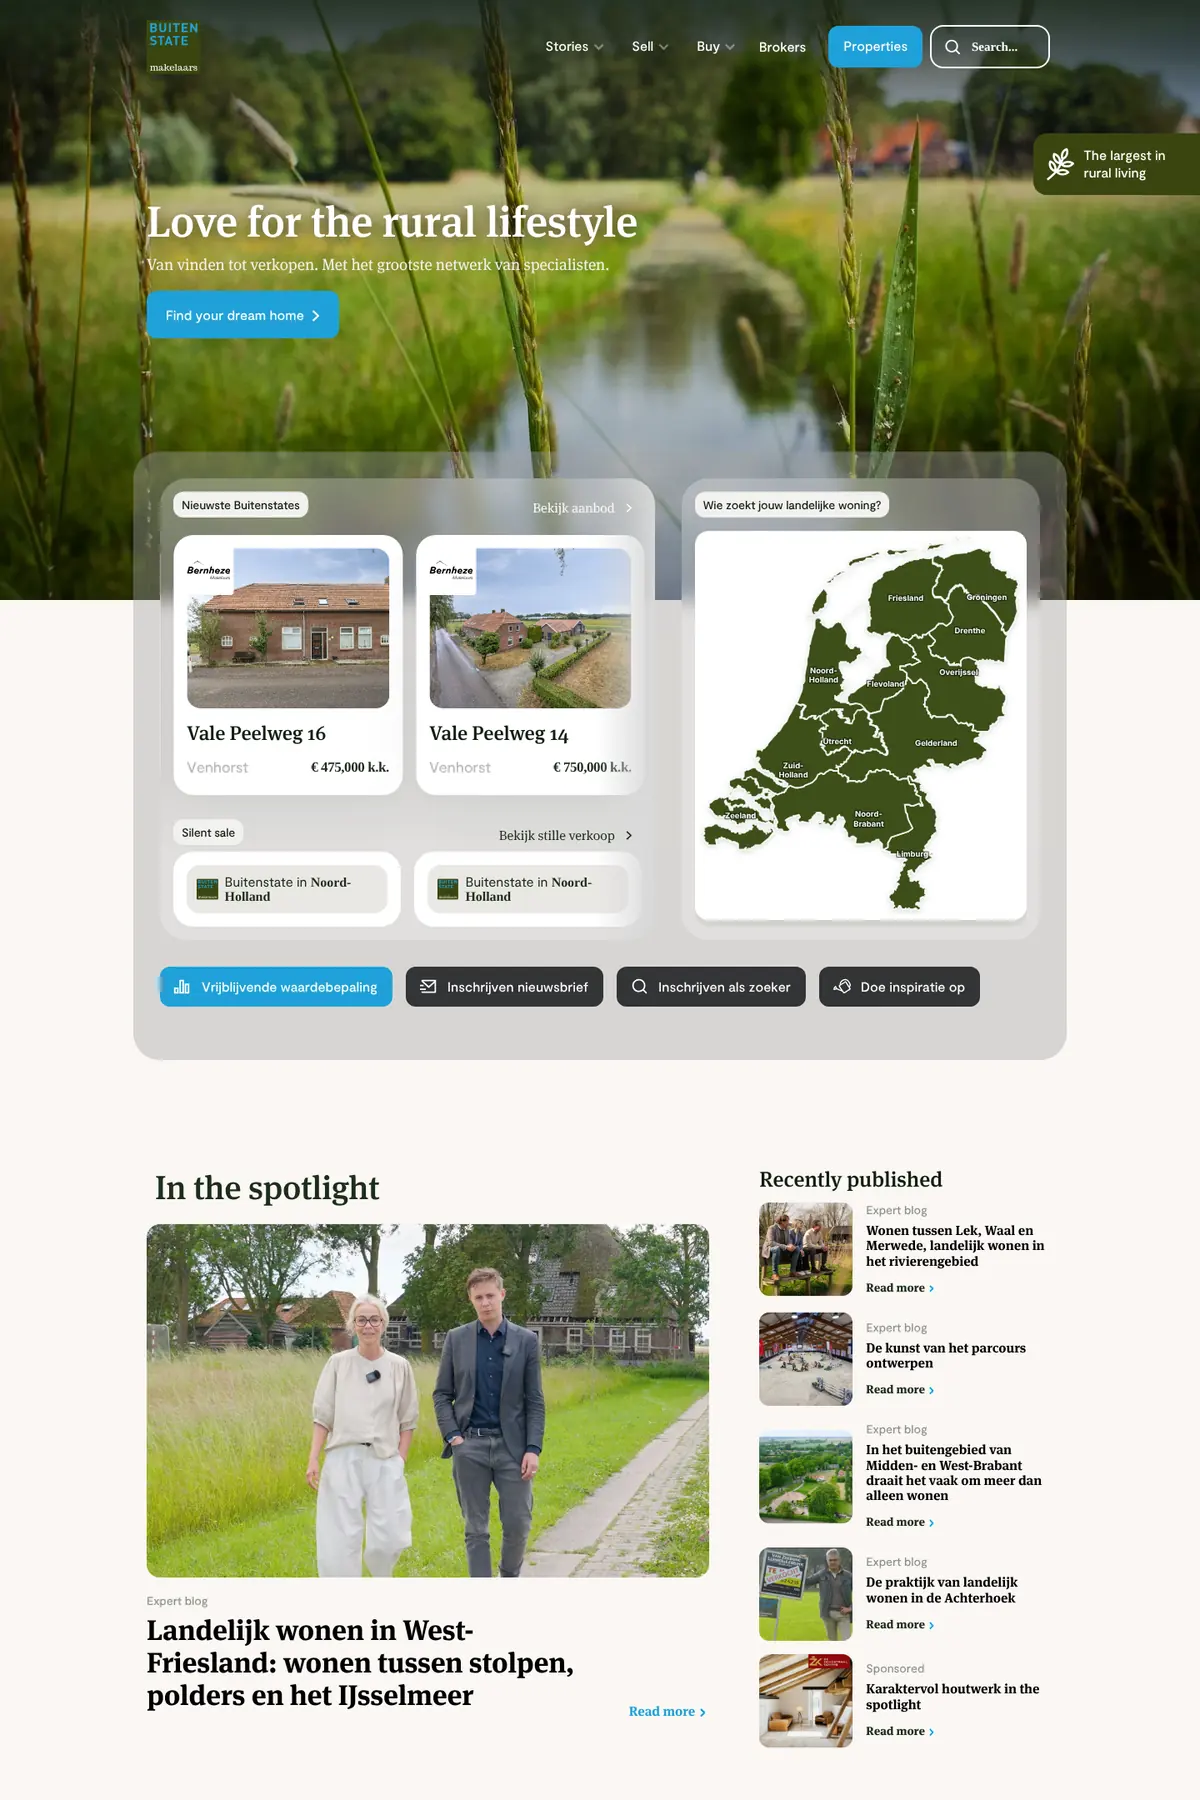
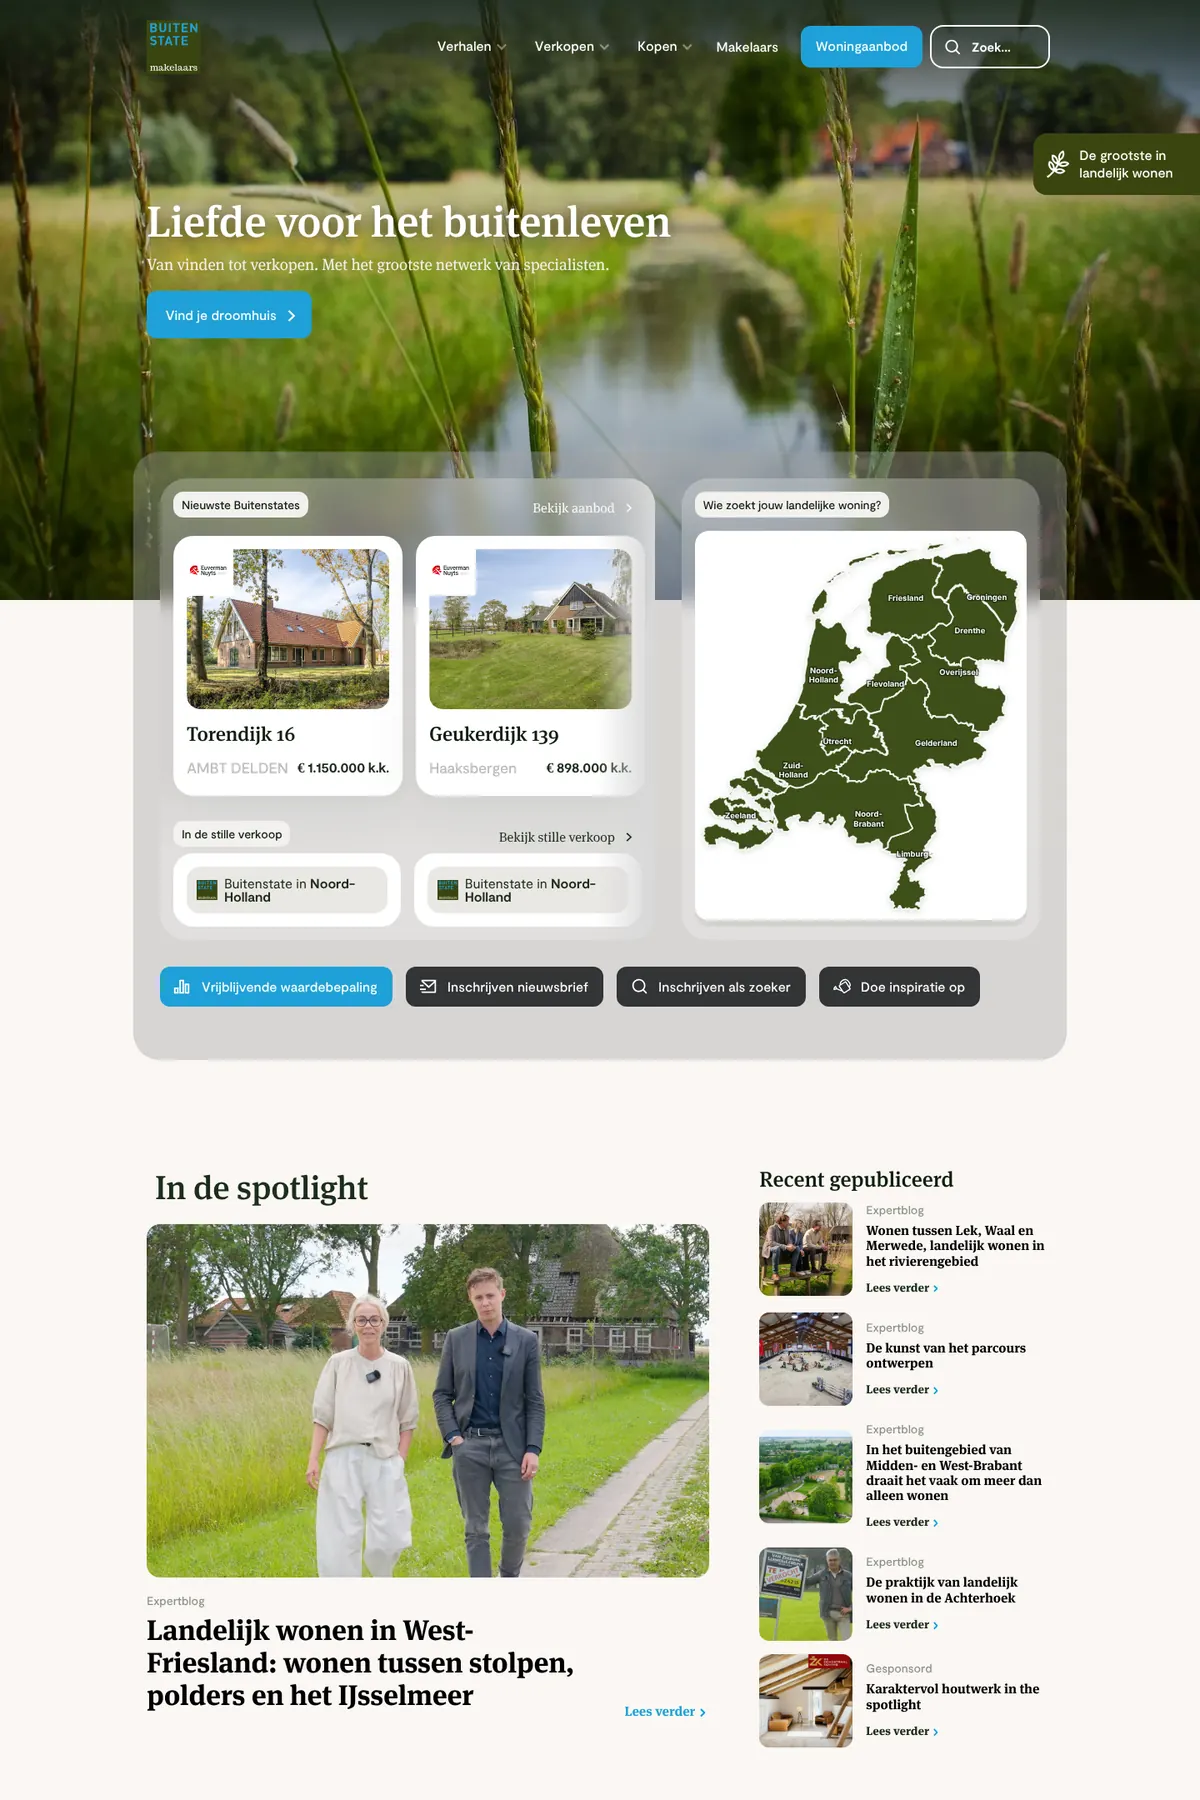
Sectorpagina's: diensten als bento met strakke mockups van echt werk
Elke dienst een tegel met een device- of drukwerkmockup (browser, tablet,
telefoon, boek, drukwerk, video). Per tegel eerst een project uit de
sector zelf, anders een sterk referentieproject (Plenty Planet, Steddion,
Buitenstate, The Sandt, Bernheze, DesignersHouse, Monvy, BCTN, Alpacafarm).
Bouw & vastgoed: Bernheze, Buitenstate, The Sandt en Steddion. Tegeltekst
is de Nederlandse intro van de dienst.

Claude-Session: https://claude.ai/code/session_01LWpQqsz2LsbqaoFYXVXiVp

diff --git a/src/styles/tiles.css b/src/styles/tiles.css
@@ -152,12 +152,14 @@
 }
 .sb-tile__text {
   grid-column: 1 / -1;
+  display: -webkit-box;
+  -webkit-box-orient: vertical;
+  -webkit-line-clamp: 2;
+  max-width: 62ch;
   margin: 7px 0 0;
   overflow: hidden;
-  white-space: nowrap;
-  text-overflow: ellipsis;
   font-size: 0.92rem;
-  line-height: 1.5;
+  line-height: 1.6;
   color: var(--muted);
 }
 .sb-tile__arrow {
@@ -180,8 +182,10 @@
 .sb-tile:hover .sb-tile__arrow,
 .sb-tile:focus-visible .sb-tile__arrow {
   color: #0b0c0f;
-  background: color-mix(in srgb, var(--accent) 88%, #fff);
-  box-shadow: 0 0 22px color-mix(in srgb, var(--accent) 45%, transparent);
+  background: #f3f4f6;
+  box-shadow:
+    0 0 0 4px color-mix(in srgb, var(--accent) 14%, transparent),
+    0 0 26px color-mix(in srgb, var(--accent) 38%, transparent);
   rotate: 45deg;
 }
 
@@ -327,12 +331,8 @@
     inset 0 0 0 1px rgba(255, 255, 255, 0.08),
     var(--dv-shadow);
 }
-.sb-tile[data-flip] .dv-browser {
-  left: auto;
-  right: 7cqw;
-}
 .dv-browser.is-scroll {
-  width: 93cqw;
+  width: 99cqw;
   height: calc(100cqh - var(--top) + 2px);
 }
 .dv-browser__bar {
@@ -407,7 +407,7 @@
   height: auto;
   object-fit: initial;
   will-change: transform;
-  animation: sb-scroll 46s cubic-bezier(0.45, 0, 0.55, 1) infinite;
+  animation: sb-scroll 56s cubic-bezier(0.45, 0, 0.55, 1) infinite;
 }
 @keyframes sb-scroll {
   0%,
@@ -439,10 +439,6 @@
   box-shadow:
     0 0 0 1px rgba(0, 0, 0, 0.7),
     var(--dv-shadow);
-}
-.sb-tile[data-flip] .dv-tablet {
-  left: auto;
-  right: 8cqw;
 }
 .dv-tablet.is-portrait {
   left: 50%;
@@ -482,7 +478,7 @@
 .dv-phone {
   left: 50%;
   top: var(--top);
-  width: max(25cqw, calc((100cqh - var(--top)) * 0.62));
+  width: min(56cqw, max(34cqw, calc((100cqh - var(--top)) * 0.82)));
   aspect-ratio: 0.488;
   translate: -50% 0;
   container-type: inline-size;
@@ -520,12 +516,48 @@
   height: 14%;
 }
 .dv-phone__screen {
+  display: flex;
+  flex-direction: column;
   height: 100%;
   border-radius: 12.4cqw;
   background: #000;
 }
+/* schermbreed, van boven af (de telefoon loopt onderaan uit beeld) */
 .dv-phone__screen img {
-  object-position: 50% 0;
+  flex: none;
+  height: auto;
+}
+/* statusbalk: de app begint onder het eiland */
+.dv-phone__status {
+  flex: none;
+  display: flex;
+  align-items: center;
+  justify-content: space-between;
+  height: 13.5cqw;
+  padding: 1.2cqw 8.5cqw 0 10.5cqw;
+  font-size: 4.3cqw;
+  font-weight: 600;
+  letter-spacing: 0.01em;
+  color: #fff;
+}
+.dv-phone__icons {
+  display: flex;
+  align-items: center;
+  gap: 1.6cqw;
+}
+.dv-phone__icons i:first-child {
+  width: 5.2cqw;
+  height: 3.2cqw;
+  background: linear-gradient(90deg, #fff 0 18%, transparent 18% 27%, #fff 27% 45%, transparent 45% 54%, #fff 54% 72%, transparent 72% 82%, rgba(255, 255, 255, 0.4) 82%);
+  clip-path: polygon(0 75%, 18% 75%, 18% 55%, 27% 55%, 27% 38%, 45% 38%, 45% 20%, 54% 20%, 54% 0, 100% 0, 100% 100%, 0 100%);
+}
+.dv-phone__icons i:last-child {
+  position: relative;
+  width: 7cqw;
+  height: 3.4cqw;
+  border-radius: 1cqw;
+  box-shadow: inset 0 0 0 0.45cqw rgba(255, 255, 255, 0.45);
+  background: linear-gradient(90deg, #fff 0 72%, transparent 72%) 0.9cqw 50% / calc(100% - 1.8cqw) calc(100% - 1.8cqw) no-repeat;
 }
 .dv-phone__island {
   position: absolute;
@@ -571,12 +603,12 @@
   --edge: #cfccc4;
   left: 50%;
   top: 50%;
-  width: min(92cqw, calc(118cqh * var(--ar) * 2));
-  translate: -50% -46%;
+  width: min(86cqw, calc(108cqh * var(--ar) * 2));
+  translate: -50% -42%;
   perspective: 2200px;
 }
 .sb-tile:hover .dv-book {
-  translate: -50% calc(-46% - 6px);
+  translate: -50% calc(-42% - 6px);
 }
 /* contactschaduw op tafel */
 .dv-book::before {
@@ -644,21 +676,25 @@
 }
 /* liggende pagina's (brandbook): groter, de rug in het midden, de buitenkanten over de rand */
 .dv-book.is-landscape {
-  --edge: #6b6964;
-  width: max(104cqw, calc(64cqh * var(--ar) * 2));
-  translate: -50% -50%;
+  --edge: #8a8780;
+  width: min(135cqw, max(102cqw, calc(48cqh * var(--ar) * 2)));
+  translate: -46% -52%;
+  perspective: 1500px;
 }
 .sb-tile:hover .dv-book.is-landscape {
-  translate: -50% calc(-50% - 6px);
+  translate: -46% calc(-52% - 6px);
 }
 .dv-book.is-landscape .dv-book__spread {
-  transform: rotateX(24deg) rotateZ(-4deg);
+  transform: rotateX(42deg) rotateZ(-11deg);
+  transform-origin: 50% 50%;
 }
 
 /* ---------- drukwerk ---------- */
 .dv-print {
   inset: 0;
-  --h: min(96cqh, calc(56cqw / var(--ar)));
+  transform: perspective(1800px) rotateX(22deg);
+  transform-origin: 50% 70%;
+  --h: min(calc(70cqh + 7cqw), calc(44cqw / var(--ar)));
   --w: calc(var(--h) * var(--ar));
 }
 .dv-print__sheet,
@@ -668,7 +704,7 @@
   transition: translate 0.9s var(--ease-out);
 }
 .dv-print__sheet {
-  top: 8cqh;
+  top: 4cqh;
   width: var(--w);
   height: var(--h);
   border-radius: 2px;
@@ -680,7 +716,7 @@
 }
 .dv-print__sheet.is-back {
   left: calc(46cqw - var(--w) * 0.92);
-  top: 13cqh;
+  top: 9cqh;
   rotate: -8deg;
 }
 .dv-print__sheet.is-front {
@@ -692,9 +728,9 @@
   rotate: 3deg;
 }
 .dv-print__card {
-  --cw: min(calc(var(--h) * 0.6), 40cqw);
-  left: calc(50cqw - var(--cw) * 0.52);
-  top: calc(8cqh + var(--h) * 0.56);
+  --cw: min(calc(var(--h) * 0.54), 36cqw);
+  left: calc(52cqw - var(--cw) * 0.4);
+  top: calc(4cqh + var(--h) * 0.6);
   width: var(--cw);
   aspect-ratio: var(--car);
   border-radius: max(3px, calc(var(--cw) * 0.025));
@@ -720,9 +756,6 @@
   pointer-events: none;
   background: linear-gradient(128deg, rgba(255, 255, 255, 0.16), transparent 34%, transparent 70%, rgba(0, 0, 0, 0.12));
 }
-.dv-print {
-  translate: none;
-}
 .sb-tile:hover .dv-print {
   translate: none;
 }
@@ -738,19 +771,16 @@
 
 /* ---------- video ---------- */
 .dv-video {
-  --vh: min(80cqh, calc(84cqw * 9 / 16));
+  /* laag genoeg dat het projectlabel eronder past */
+  --vh: min(64cqh, calc(84cqw * 9 / 16));
   left: max(7cqw, calc(50cqw - var(--vh) * 8 / 9));
-  top: calc(var(--top) + 2cqh);
+  top: max(var(--top), calc((100cqh - var(--vh)) * 0.4));
   width: calc(var(--vh) * 16 / 9);
   container-type: inline-size;
 }
 .sb-tile--hero .dv-video,
 .sb-tile--full .dv-video {
   --vh: 76cqh;
-}
-.sb-tile[data-flip] .dv-video {
-  left: auto;
-  right: max(7cqw, calc(50cqw - var(--vh) * 8 / 9));
 }
 .dv-video__frame {
   position: relative;
@@ -897,6 +927,10 @@
   }
   .sb-tile--hero .sb-stage {
     aspect-ratio: 1.12;
+  }
+  /* losse tegel over de volle breedte (geen hero): liggend podium */
+  .sb-cell--m2:not(.sb-cell--hero) .sb-stage {
+    aspect-ratio: 2;
   }
   .sb-tile--full {
     flex-direction: column;

diff --git a/src/app/lab/bento/page.tsx b/src/app/lab/bento/page.tsx
@@ -1,7 +1,8 @@
 import { notFound } from "next/navigation";
 import { ServiceBento } from "@/components/sector/ServiceBento";
 import { SectionHead } from "@/components/ui/Cards";
-import type { Locale } from "@/content/types";
+import { SERVICE_SLUGS } from "@/content/registry";
+import type { Locale, Sector } from "@/content/types";
 import { allSectors, getSector } from "@/lib/content";
 import { tr } from "@/lib/i18n";
 import "@/styles/tiles.css";
@@ -10,11 +11,15 @@ import "@/styles/tiles.css";
  * Bento-lab (alleen development): /lab/bento?s=<sector-slug>&lang=en
  * Toont de dienstentegels (ServiceBento) van één sector, zoals onder "Hoe we helpen".
  * Zonder s: bouw-vastgoed-architectuur. s=all: alle sectoren onder elkaar.
+ * n=1..10: test het raster met n tegels (diensten van de sector, aangevuld met de rest).
  */
-export default function BentoLab({ searchParams }: { searchParams: { s?: string; lang?: string } }) {
+export default function BentoLab({ searchParams }: { searchParams: { s?: string; lang?: string; n?: string } }) {
   if (process.env.NODE_ENV === "production") notFound();
   const locale: Locale = searchParams.lang === "en" ? "en" : "nl";
-  const list = searchParams.s === "all" ? allSectors() : [getSector(searchParams.s ?? "bouw-vastgoed-architectuur")].filter(Boolean);
+  const n = searchParams.n ? Math.max(1, Math.min(10, Number(searchParams.n) || 6)) : 0;
+  const pick = (s: Sector): Sector =>
+    n ? { ...s, services: [...s.services, ...SERVICE_SLUGS.filter((x) => !s.services.includes(x))].slice(0, n) } : s;
+  const list = (searchParams.s === "all" ? allSectors() : [getSector(searchParams.s ?? "bouw-vastgoed-architectuur")].filter(Boolean)).map((s) => pick(s!));
   if (!list.length) notFound();
 
   return (

diff --git a/src/content/sectors.ts b/src/content/sectors.ts
@@ -518,6 +518,20 @@ export const sectors: Sector[] = [
     ],
     services: ["branding-rebranding", "websites-webshops", "foto-video-3d-animatie", "grafisch-ontwerp-print", "seo-aeo-geo", "configurators-lead-tools-widgets"],
     applications: ["3d-visualisatie", "dronevideo", "bedrijfsfilm", "webflow-website", "huisstijl", "brochures-magazines", "beurs-signing", "lokale-seo", "offerte-calculator"],
+    /* Mockups in de dienstentegels: eigen werk uit vastgoed (foto/video: automatisch / standaard) */
+    visuals: {
+      "branding-rebranding": {
+        kind: "print",
+        front: "/media/showcase/bernheze/cover-front.webp",
+        back: "/media/showcase/bernheze/cover-back.webp",
+        card: "/media/showcase/bernheze/card-front.webp",
+        label: "Bernheze Makelaars",
+      },
+      "websites-webshops": { kind: "browser", src: "/media/sector-tiles/buitenstate-site.webp", url: "buitenstate.nl", scroll: true, label: "Buitenstate" },
+      "grafisch-ontwerp-print": { kind: "book", left: "/media/showcase/bernheze/im-p08.webp", right: "/media/showcase/bernheze/im-p09.webp", label: "Bernheze Makelaars" },
+      "seo-aeo-geo": { kind: "browser", src: "/media/sector-tiles/sandt-chatgpt.webp", url: "chatgpt.com", label: "The Sandt" },
+      "configurators-lead-tools-widgets": { kind: "browser", src: "/media/sector-tiles/steddion-configurator.webp", url: "tools.steddion.com/configurator", label: "Steddion" },
+    },
     faqs: [
       {
         q: { nl: "Maken jullie 3D-visualisaties van bouwprojecten?", en: "Do you create 3D visuals of construction projects?" },

diff --git a/src/components/sector/Devices.tsx b/src/components/sector/Devices.tsx
@@ -14,7 +14,6 @@ type V = Record<string, string | number>;
 const v = (o: V) => o as React.CSSProperties;
 
 function Img({ src, position }: { src: string; position?: string }) {
-  // eslint-disable-next-line @next/next/no-img-element
   return <img src={src} alt="" loading="lazy" decoding="async" draggable={false} style={position ? { objectPosition: position } : undefined} />;
 }
 
@@ -65,6 +64,13 @@ function Phone({ src }: { src: string }) {
   return (
     <div className="dv dv-phone">
       <div className="dv-phone__screen dv-glass">
+        <span className="dv-phone__status">
+          <span>9:41</span>
+          <span className="dv-phone__icons">
+            <i />
+            <i />
+          </span>
+        </span>
         <Img src={src} />
         <span className="dv-phone__island" />
       </div>
@@ -74,9 +80,11 @@ function Phone({ src }: { src: string }) {
 
 /* ---------- bestaande mockupfoto (case-cover) ---------- */
 function Photo({ src, position }: { src: string; position?: string }) {
+  // staande foto's in een brede tegel: het bovenste deel (kop, logo) in beeld
+  const pos = position ?? ((aspectOf(src) ?? 1) < 0.95 ? "50% 18%" : undefined);
   return (
     <div className="dv dv-photo">
-      <Img src={src} position={position} />
+      <Img src={src} position={pos} />
     </div>
   );
 }

diff --git a/src/components/sector/ServiceBento.tsx b/src/components/sector/ServiceBento.tsx
@@ -81,7 +81,6 @@ export function ServiceBento({ sector, locale }: { sector: Sector; locale: Local
             <TLink
               href={paths.service(s)}
               className={`sb-tile sb-tile--${sizes[i]} sb-kind--${visual.kind}`}
-              data-flip={i % 2 === 1 ? "" : undefined}
               data-play=""
               style={{ ["--accent" as string]: s.color }}
             >
@@ -91,7 +90,7 @@ export function ServiceBento({ sector, locale }: { sector: Sector; locale: Local
                   {apps} {nl ? (apps === 1 ? "toepassing" : "toepassingen") : apps === 1 ? "application" : "applications"}
                 </span>
                 <h3 className="sb-tile__title">{tr(s.title, locale)}</h3>
-                <p className="sb-tile__text">{tr(s.tagline, locale)}</p>
+                <p className="sb-tile__text">{tr(s.intro, locale)}</p>
                 <span className="sb-tile__arrow" aria-hidden="true">
                   <Icon name="arrowUpRight" size={18} stroke={1.8} />
                 </span>
